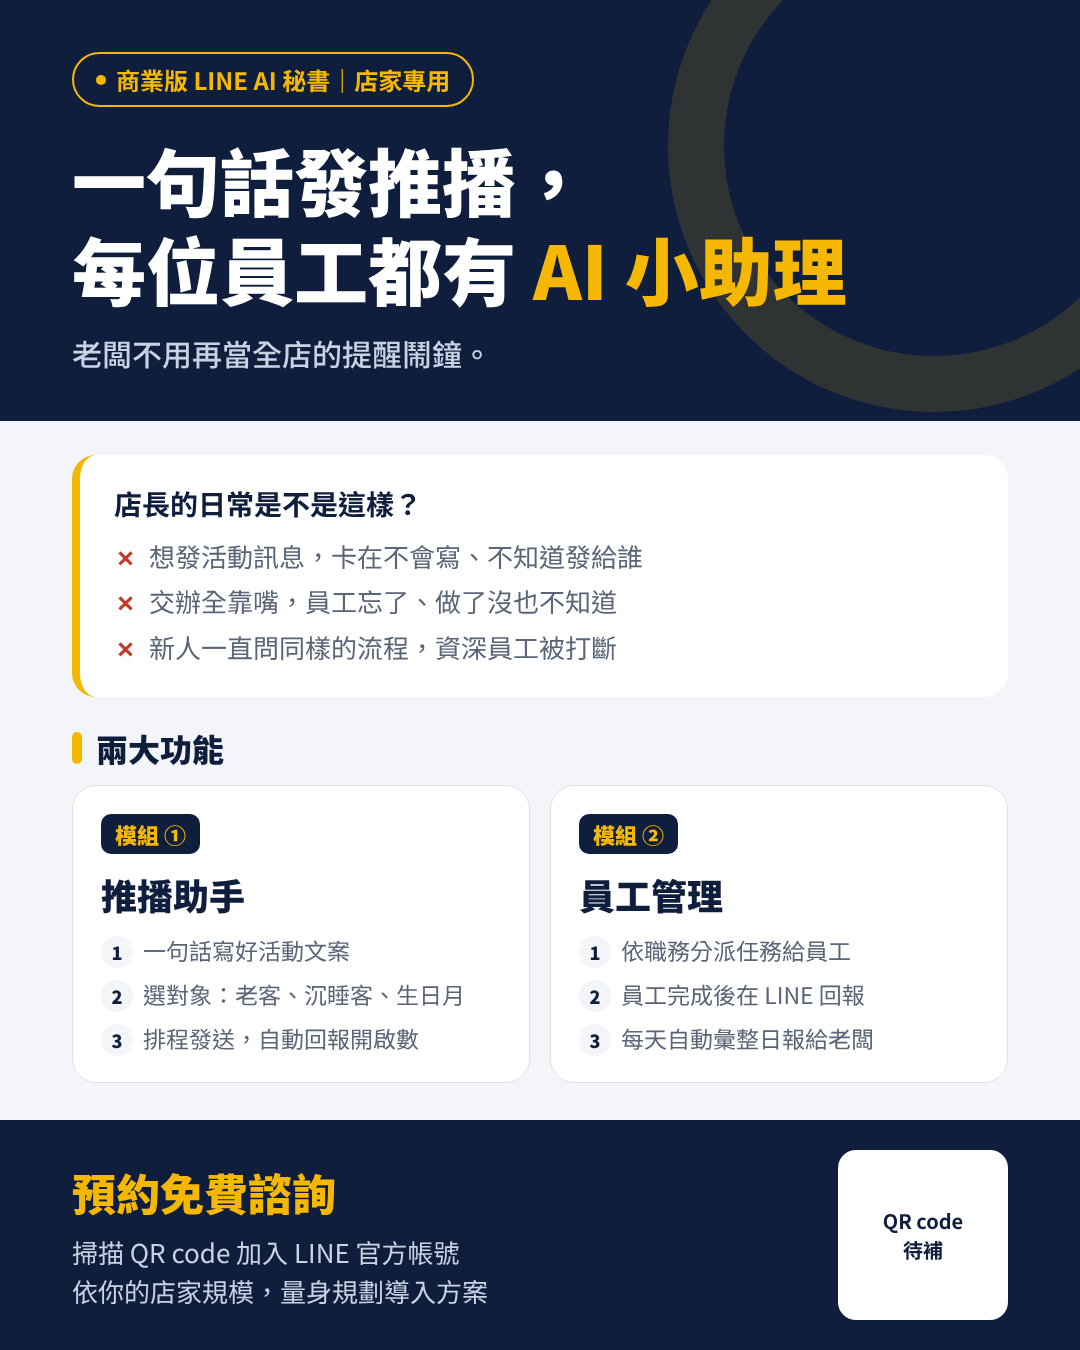
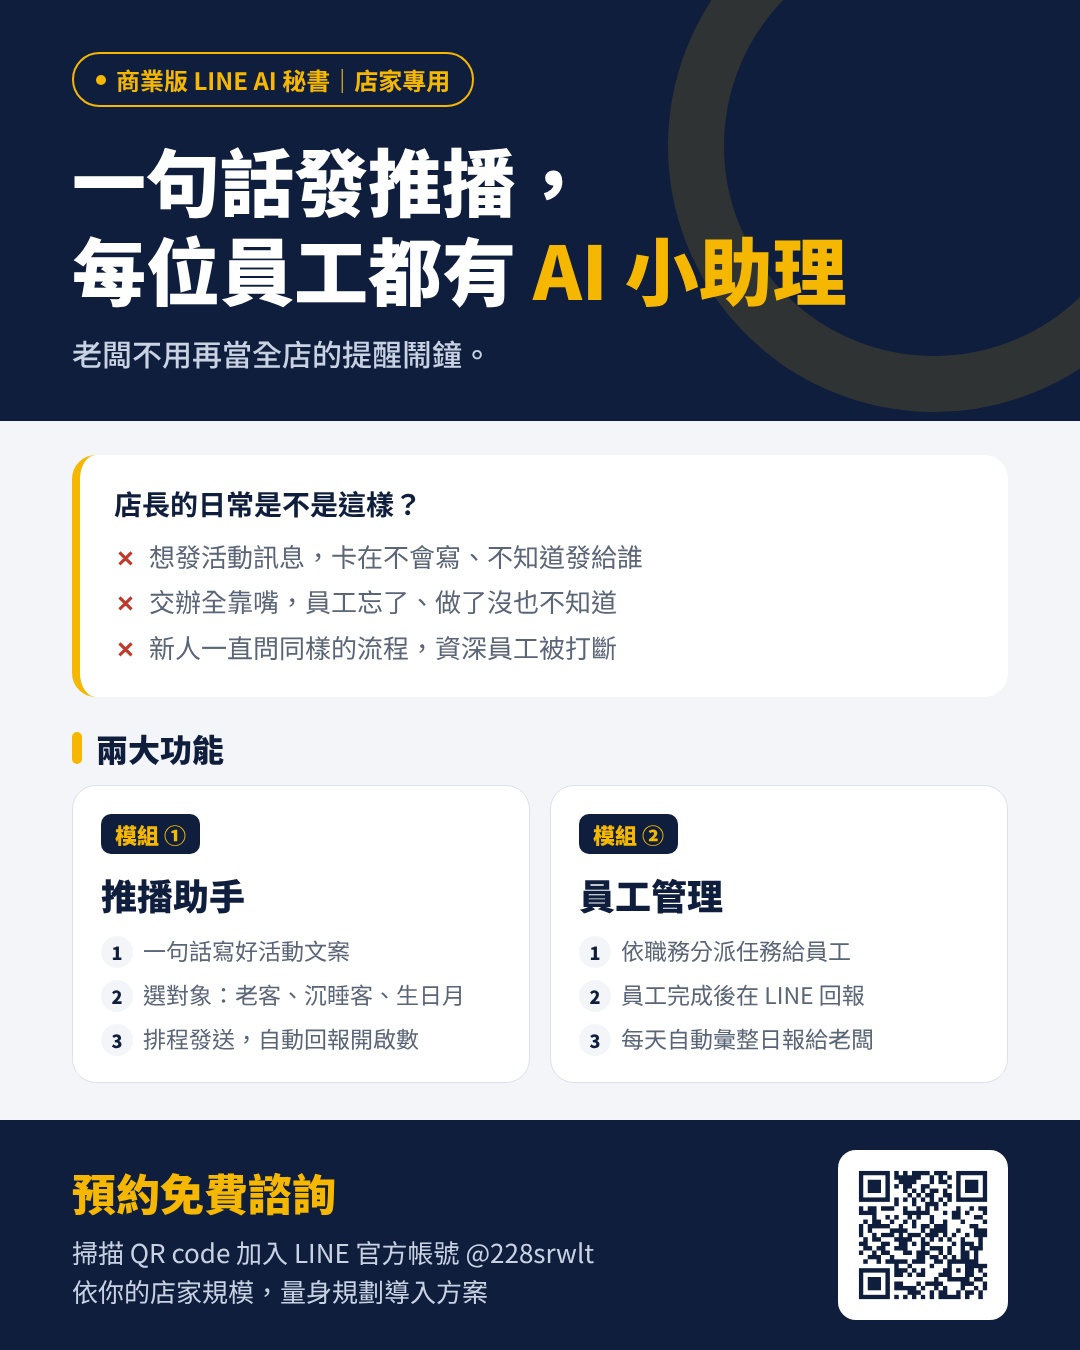
商業版 DM 補上 LINE 官方帳號 @228srwlt QR code

Changed region(s): [[0.7944, 0.84, 0.9167, 0.9644], [0.4278, 0.9022, 0.55, 0.9333]]

diff --git a/dm-ai-secretary/aisec_dm_biz.html b/dm-ai-secretary/aisec_dm_biz.html
@@ -65,8 +65,8 @@ body{background:#888;font-family:"Noto Sans TC","WenQuanYi Zen Hei",sans-serif;c
     </div>
   </div>
   <div class="aisec-foot">
-    <div class="txt"><b>預約免費諮詢</b><p>掃描 QR code 加入 LINE 官方帳號<br>依你的店家規模，量身規劃導入方案</p></div>
-    <div class="aisec-qr" id="aisec_qr">QR code<br>待補</div>
+    <div class="txt"><b>預約免費諮詢</b><p>掃描 QR code 加入 LINE 官方帳號 @228srwlt<br>依你的店家規模，量身規劃導入方案</p></div>
[1 lines of base64/hex data omitted]
   </div>
 </div>
 </body>
